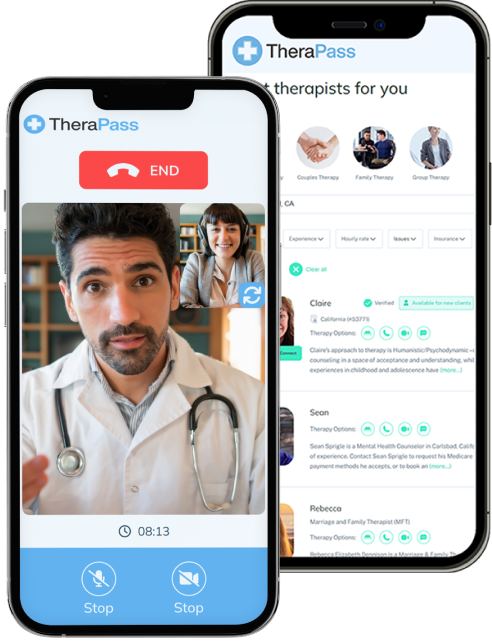
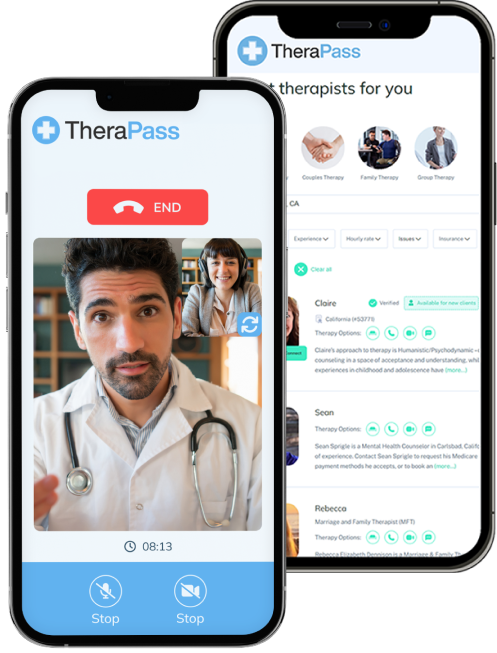
tablet updates

diff --git a/styles.css b/styles.css
@@ -55,7 +55,7 @@ body {
 }
 
 #hero-title {
-    font-size: clamp(1.75rem, 3vw + 1rem, 3.5rem);
+    font-size: clamp(1.75rem, 5vw + 1rem, 3.5rem);
     font-weight: 700;
     line-height: 120%;
     color: var(--tb900);
@@ -135,6 +135,10 @@ body {
     height: 600px;
 }
 
+.phone-mockups-tablet {
+    display: none;
+}
+
 /* Top Right Background Image */
 
 .top-right-bg {
@@ -152,6 +156,10 @@ body {
     z-index: -5;
 }
 
+.top-right-bg, .bottom-left-bg {
+    overflow: hidden;
+}
+
 /* Bottom Stat Bar */
 #bottom-bar {
     background: var(--tb700);
@@ -163,7 +171,7 @@ body {
 
 #bottom-bar-wrapper {
     width: 100%;
-    max-width: 1076px;
+    max-width: 1300px;
     display: flex;
     justify-content: space-between;
 }
@@ -171,6 +179,7 @@ body {
 .stat-container {
     display: flex;
     flex-direction: column;
+    align-items: center;
 }
 
 .top-stat {
@@ -182,5 +191,97 @@ body {
 .bottom-stat {
     font-size: 1.375rem;
     color: var(--tb50);
-    font-weight: 500;
+    font-weight: 400;
+}
+
+/* Tablet / Mobile Stat Bar */
+#bottom-bar-tablet {
+    display: none;
+}
+
+/* Responsive Stuff */
+
+/* Hero Section */
+@media screen and (max-width: 1025px) {
+    body {
+        height: 100%;
+        margin-bottom: 0;
+    }
+
+    /* Makes hero content column */
+    #hero {
+        padding-top: 54px;
+        flex-direction: column;
+        align-items: center;
+        gap: 40px;
+        margin-bottom: 56px;
+    }
+
+    /* Makes left / top text column wider and centers items in it */
+    .left-column {
+        width: 100%;
+        max-width: 100%;
+        justify-content: center;
+        align-items: center;
+    }
+
+    #hero-title {
+        width: 75%;
+    }
+
+    .three-ways-container {
+        justify-content: center;
+    }
+
+    .search-form {
+        justify-content: center;
+    }
+
+    .search-input, .search-button {
+        width: 320px;
+    }
+
+    /* Image Stuff - hides desktop image and shows tablet image */
+    .phone-mockups-tablet {
+        display: inline;
+    }
+
+    .phone-mockups {
+        display: none;
+    }
+
+    .top-right-bg {
+        width: 50%;
+    }
+
+    /* Bottom Stat Bar */
+    #bottom-bar {
+        display: none;
+    }
+
+    #bottom-bar-tablet {
+        display: flex;
+        margin-bottom: 40px;
+        width: 100%;
+        padding-left: 40px;
+        padding-right: 40px;
+    }
+
+    #bottom-bar-wrapper-tablet {
+        display: grid;
+        grid-template-columns: repeat(2, 1fr);
+        grid-template-rows: repeat(2, 1fr);
+        grid-column-gap: 20px;
+        grid-row-gap: 20px;
+        align-content: stretch;
+        width: 100%;
+    }
+
+    .stat-container {
+        background: var(--tb700);
+        border-radius: 8px;
+        padding-top: 32px;
+        padding-bottom: 32px;
+    }
+
 }

diff --git a/index.html b/index.html
@@ -38,25 +38,46 @@
     </div>
     <div class="right-column">
         <img src="/assets/phone-mockups.png" alt="TheraPass Phone MockUps" class="phone-mockups">
+        <img src="/assets/phone-mockups-tablet.png" alt="TheraPass Phone MockUps" class="phone-mockups-tablet">
     </div>
 
 </section>
 <section id="bottom-bar">
     <div id="bottom-bar-wrapper">
         <div class="stat-container">
-            <p class="top-stat">2 Million+</p>
+            <p class="top-stat">+2 million+</p>
             <p class="bottom-stat">Mental Health Assessments</p>
         </div>
         <div class="stat-container">
-            <p class="top-stat">600K+</p>
+            <p class="top-stat">+600,000</p>
             <p class="bottom-stat">Mental Health Professionals</p>
         </div>
         <div class="stat-container">
-            <p class="top-stat">6+</p>
+            <p class="top-stat">+6</p>
             <p class="bottom-stat">Years in Business</p>
         </div>
         <div class="stat-container">
-            <p class="top-stat">200K+</p>
+            <p class="top-stat">+200,000</p>
+            <p class="bottom-stat">Satisfied Customers</p>
+        </div>
+    </div>
+</section>
+<section id="bottom-bar-tablet">
+    <div id="bottom-bar-wrapper-tablet">
+        <div class="stat-container">
+            <p class="top-stat">+2 million+</p>
+            <p class="bottom-stat">Mental Health Assessments</p>
+        </div>
+        <div class="stat-container">
+            <p class="top-stat">+600,000</p>
+            <p class="bottom-stat">Mental Health Professionals</p>
+        </div>
+        <div class="stat-container">
+            <p class="top-stat">+6</p>
+            <p class="bottom-stat">Years in Business</p>
+        </div>
+        <div class="stat-container">
+            <p class="top-stat">+200,000</p>
             <p class="bottom-stat">Satisfied Customers</p>
         </div>
     </div>
